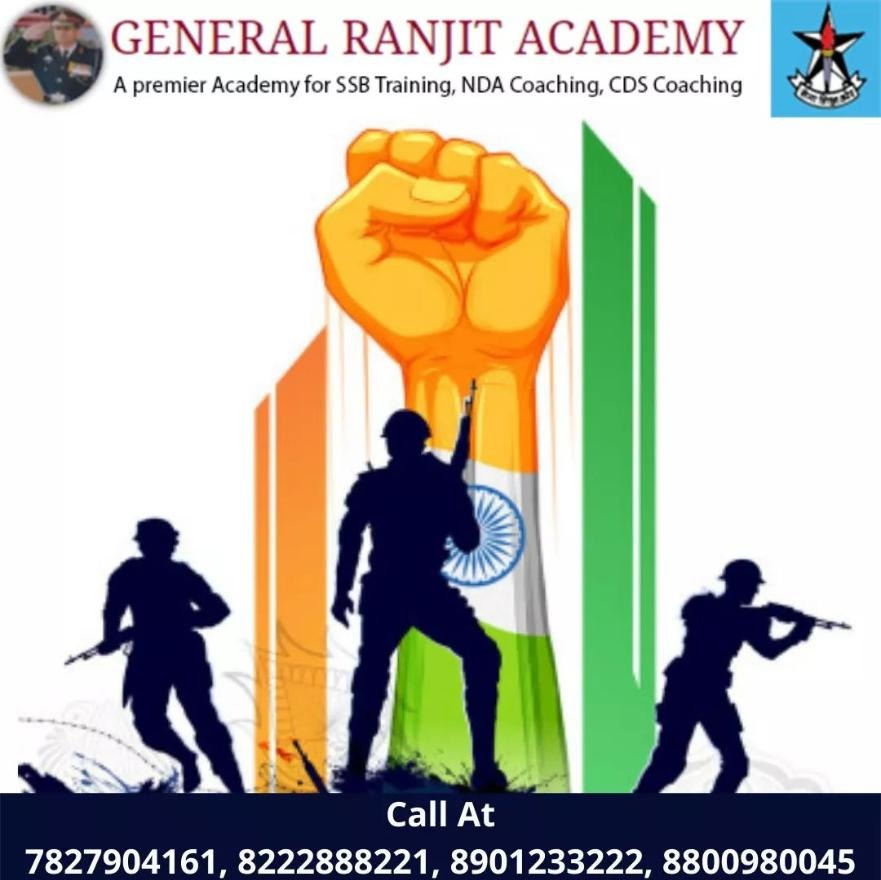
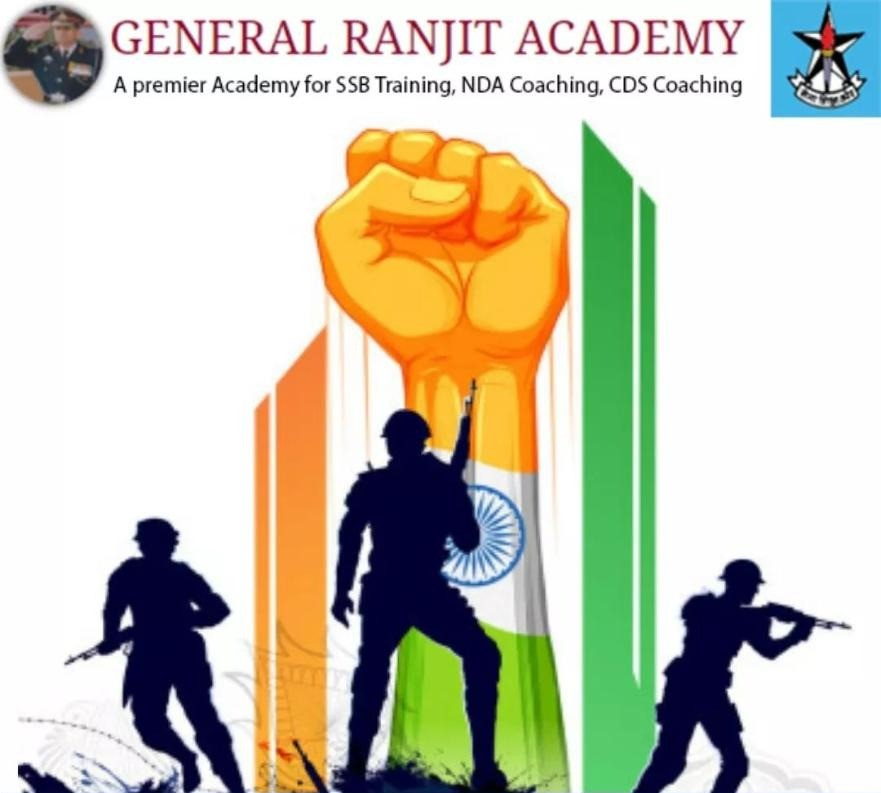
deploy: datadarts/generalranjit.academy@86eaec85c34db4235ca15f688c9d43405ef663e5

diff --git a/index.html b/index.html
@@ -5,7 +5,7 @@
 <span class="fs-3 fw-semibold text-uppercase text-primary">General Ranjit Academy</span></a>
 <button class=navbar-toggler type=button data-bs-toggle=collapse data-bs-target=#navbarContent aria-controls=navbarContent aria-expanded=false aria-label="Toggle navigation">
 <span class=navbar-toggler-icon></span></button><div class="collapse navbar-collapse" id=navbarContent><ul class="navbar-nav ms-auto mb-2 mb-xl-0"></ul><ul class="navbar-nav ms-xl-3 mb-2 mb-xl-0"></ul></div></div></nav><section class="section hero py-5"><div class=container><div class="row flex-column flex-xl-row-reverse"><div class="col-12 col-xl-6 d-flex flex-column justify-content-center hero-image"><img class=img-fluid src=https://www.generalranjit.academy/images/hero-image.png alt=images/hero-image.png width=1772 height=1773></div><div class="col-12 col-xl-6 d-flex flex-column justify-content-center"><h3 class="hero-title fw-bold display-1 text-primary text-center text-xl-start pb-4">India&rsquo;s Best SSB Training</h3><p class="text-center text-black-61 text-xl-start pb-4">General Ranjit SSB Academy is a premier SSB Coaching Academy and one of the best for SSB Interview Coaching, NDA Coaching, SSB Training, Soldier Recruitment and SSB Guidance. The Academy aims to provide training in a manner which makes an excellent platform for nurturing students for Defence forces (Army, Air Force and Navy). This in turn helps students perform well in SSB Interview. General Ranjit SSB Coaching Academy provides the best facilities needed in SSB preparation, in turn resulting in an excellent SSB Interview. Guidance on each technique by the experts for NDA, IMA, OTA, ACC, SCO, TA, Coast Guard, PCSL, Indian Airforce, Indian Navy all the entries in defence forces.</p><div class="d-flex flex-column flex-xl-row"><a class="btn btn-primary text-light px-4 my-1" href=#>Contact US</a>
-<a class="btn btn-outline-primary px-4 my-1 ms-xl-4" href>Phone: 8800980045<span class=ms-2><svg xmlns="http://www.w3.org/2000/svg" width="16" height="16" fill="currentcolor" class="bi bi-arrow-right" viewBox="0 0 16 16"><path fill-rule="evenodd" d="M1 8a.5.5.0 01.5-.5h11.793l-3.147-3.146a.5.5.0 01.708-.708l4 4a.5.5.0 010 .708l-4 4a.5.5.0 01-.708-.708L13.293 8.5H1.5A.5.5.0 011 8z"/></svg></span></a></div></div></div></div></section><section class="section brands py-5"><div class=container><div class=row><div class=col-12><h3 class="fs-5 fw-semibold text-primary text-center pb-4">Best SSB/NDA training Academy of India</h3></div></div><div class="row align-items-center justify-content-center"></div></div></section><section class="section portfolio"><div class=container><div class="row portfolio-feature"><div class="col-12 col-xl-6 d-flex flex-column justify-content-center"><img class=img-fluid src=https://www.generalranjit.academy/images/4.jpeg alt=images/4.jpeg width=881 height=880></div><div class="col-12 col-xl-6 d-flex flex-column justify-content-center"><p class="text-danger fw-semibold mb-2">SSB Coaching Services</p><h3 class="fs-1 fw-bold text-primary pb-3">HIGHLIGHTS</h3><p class="text-black-61 pb-3">• Latest Screening Tests
+<a class="btn btn-outline-primary px-4 my-1 ms-xl-4" href>Phone: 8800980045<span class=ms-2><svg xmlns="http://www.w3.org/2000/svg" width="16" height="16" fill="currentcolor" class="bi bi-arrow-right" viewBox="0 0 16 16"><path fill-rule="evenodd" d="M1 8a.5.5.0 01.5-.5h11.793l-3.147-3.146a.5.5.0 01.708-.708l4 4a.5.5.0 010 .708l-4 4a.5.5.0 01-.708-.708L13.293 8.5H1.5A.5.5.0 011 8z"/></svg></span></a></div></div></div></div></section><section class="section brands py-5"><div class=container><div class=row><div class=col-12><h3 class="fs-5 fw-semibold text-primary text-center pb-4">Best SSB/NDA training Academy of India</h3></div></div><div class="row align-items-center justify-content-center"></div></div></section><section class="section portfolio"><div class=container><div class="row portfolio-feature"><div class="col-12 col-xl-6 d-flex flex-column justify-content-center"><img class=img-fluid src=https://www.generalranjit.academy/images/4.jpeg alt=images/4.jpeg width=881 height=793></div><div class="col-12 col-xl-6 d-flex flex-column justify-content-center"><p class="text-danger fw-semibold mb-2">SSB Coaching Services</p><h3 class="fs-1 fw-bold text-primary pb-3">HIGHLIGHTS</h3><p class="text-black-61 pb-3">• Latest Screening Tests
 • Extensive Psychology Tests as per SSB
 • GTO Tasks Available
 • Special Attention to Repeaters
